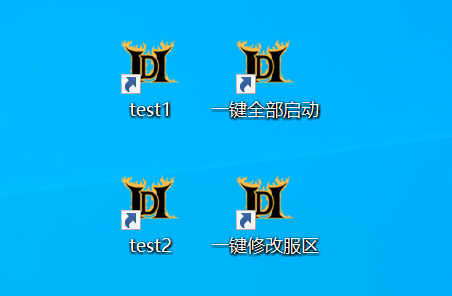
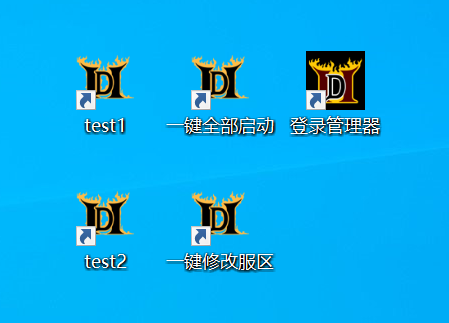
V2.0.1

Changed region(s): [[0.1559, 0.1216, 0.8731, 0.4257], [0.1559, 0.5777, 0.7171, 0.8818]]

diff --git a/README.md b/README.md
@@ -3,11 +3,11 @@ github地址：https://github.com/faliny/D2R-fast-launcher
 
 # 工具介绍
 这是一款基于PowerShell脚本编写的暗黑2重置版游戏快捷登录器，旨在帮助更多热爱暗黑2的游戏玩家一键多开，创造更好的游戏体验：
-* 登录器会绕过战网程序直接启动并登录暗黑2游戏；
+* 登录器会绕过战网程序直接启动并登录暗黑2重置版；
 * 登录器里可以分别对各个账号做启动配置；
-* 多开时登录器会自动杀掉暴雪的防多开进程，实现一键多开；
-* 通过登录器，能针对录入账号分别生成单号启动的快捷方式，也能生成一键全部启动的快捷方式；
-* files目录下的handle64.exe是微软官方的多开必要工具，若微软发布了新的程序版本，可自行下载更新，地址：https://docs.microsoft.com/en-us/sysinternals/downloads/handle
+* 多开时登录器会使用微软官方的工具杀掉暴雪的防多开进程，实现一键多开；
+* 通过登录器，能针对录入账号分别生成单号启动快捷方式，也能生成一键全部启动快捷方式，不限制账号个数；
+* 登录器的原理不涉及作弊，理论上没有封号风险。
 
 这是本人第一次接触PowerShell，部分基础功能借鉴了Chobotz的源码（github地址：https://github.com/Chobotz/D2R-multiclient-tools）
 若发现bug或有改进建议，请留言交流。
@@ -21,11 +21,18 @@ github地址：https://github.com/faliny/D2R-fast-launcher
 # 使用方法
 1. 将files目录下所有文件复制到暗黑2游戏的主目录下
 2. 双击打开登录管理器，根据提示将账号信息依次录入
-3. 创建登录快捷方式到桌面，打开对应快捷方式启动游戏
+3. 在登录管理器里选择创建登录快捷方式到桌面，打开对应快捷方式启动游戏
+
+# 下载方式
+打开[工具下载页面](https://github.com/faliny/D2R-fast-launcher/releases)
+，选择要下载的版本，展开Assets，随便选择一个Source code下载即可。
+
+![下载界面](screenshot/download.png)
 
 # 注意: 
 ```diff
-- 不要在登录战网的情况下通过启动器启动游戏，若需使用，请先关闭战网程序。
+- 不要在登录战网的情况下通过启动器启动游戏，若需使用，请先关闭战网程序；
+- 文件中的登录管理器本身也是一个快捷方式，不能直接复制到桌面，可在游戏目录下打开登录管理器后选择创建快捷方式到桌面；
 ```
 
 # 工具截图
@@ -37,36 +44,21 @@ github地址：https://github.com/faliny/D2R-fast-launcher
 
 ![添加账号配置](screenshot/add.png)
 
-3、查看账号配置
+3、创建启动单个账号快捷方式到桌面
 
-![查看账号配置](screenshot/overview.png)
+![创建单个快捷方式到桌面](screenshot/addLink.png)
 
-4、创建启动单个账号快捷方式到桌面
-
-![创建单个快捷方式到桌面](screenshot/addLink1.png)
-
-5、创建一键全部启动快捷方式到桌面
-
-![创建一键启动快捷方式到桌面](screenshot/addLink2.png)
-
-6、创建一键修改服区快捷方式到桌面
-
-![创建一键修改服区快捷方式到桌面](screenshot/addLink3.png)
-
-7、桌面快捷方式
+4、桌面快捷方式
 
 ![桌面快捷方式](screenshot/link.png)
 
-8、本地用户配置文件
+5、本地用户配置文件
 
 ![本地用户配置文件](screenshot/config.png)
 
-# 发布说明
-* [历史版本](https://github.com/faliny/D2R-fast-launcher/releases)
-  
 # 申明
 非盈利性质工具，任何风险请自行承担
   
 # 常见/已知问题: 
 * 如果遇到重复的验证码验证循环，将C:\Users\User\AppData\Local\Battle.net\Cache目录下的所有内容删除后重试
-* 如果遇到无法登录的情况，请使用正常方式通过战网登录该账号，进行客户端更新或身份验证，后续可继续使用登录器进行快捷登录
+* 如果遇到无法登录的情况，请使用正常方式通过战网登录该账号，进行客户端更新或身份验证，完成后便可继续使用快捷登录器登录
